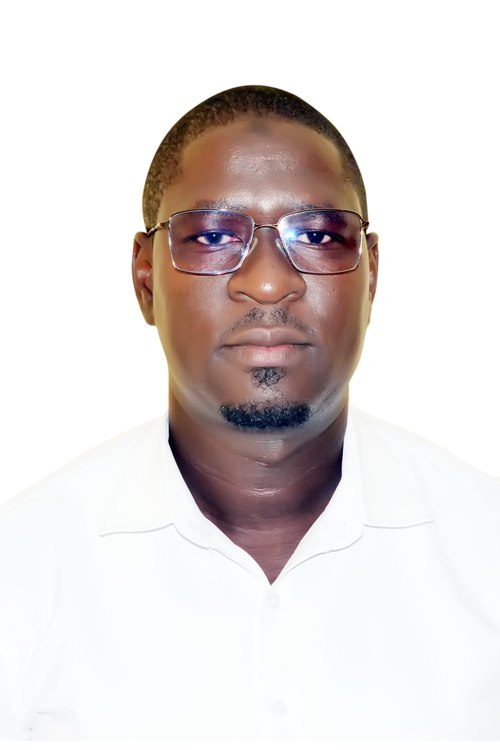
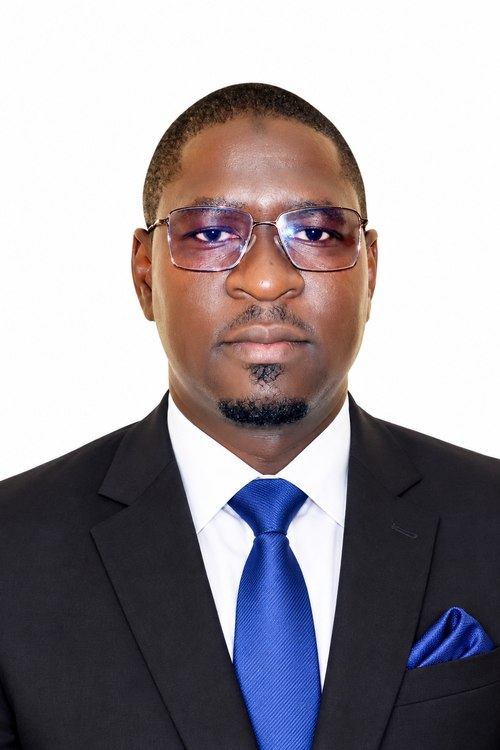
Fix team detail pages substituting Modern Karema's bio, add Osbon's real bio
TeamDetailsInner had a fallback that substituted Modern Karema's CEO
bio whenever a real team member's bio field was empty - meaning
Kasozi Osbon's page (and anyone else without a submitted bio) was
showing his name/photo/role but Modern's biography text. Replaced
that with an honest generic placeholder that references the actual
person, and only falls back to the hardcoded default when there's no
member data at all (a genuinely broken link).

Added Kasozi Osbon's real photo, bio, role (Program Lead) and
LinkedIn, reordering him alongside the other Program Leads. Also
corrected CPA Fredrick Kibeddi's title from "Board Member, Finance &
Risk" to "Committee Chairperson, Finance & Risk" per the client.

The seed sync loop now also updates role, order and linkedinUrl on
existing records (previously only photo and bio), since title/order
corrections like these need to actually take effect on reseed.

Claude-Session: https://claude.ai/code/session_012BVZR2jqnUajNw6z3kPew4

diff --git a/src/seed/seed.ts b/src/seed/seed.ts
@@ -373,7 +373,7 @@ async function seed() {
     { name: 'Janat Namukose', role: 'Chief People Officer', category: 'executive', photo: teamPhotos.namukose, order: 4, featuredOnHome: true, bio: "As Chief People Officer, Janat leads the people, culture and talent strategy that enables Ed Impact Africa Foundation's team to deliver its education reform mission across Uganda." },
     { name: 'Prof. Betty Ezati', role: 'Board Chairperson', category: 'board', photo: teamPhotos.ezati, order: 5, featuredOnHome: false, bio: "As Board Chairperson, Professor Ezati provides strategic oversight and governance leadership for Ed Impact Africa Foundation's Board of Directors." },
     { name: 'Dr. Cleophas Mugenyi', role: 'Board Member', category: 'board', photo: teamPhotos.mugenyi, order: 6, featuredOnHome: false, bio: "As a Board Member, Dr. Mugenyi contributes to the governance and strategic direction of Ed Impact Africa Foundation." },
-    { name: 'CPA Fredrick Kibeddi', role: 'Board Member, Finance & Risk', category: 'board', photo: teamPhotos.kibeddi, order: 7, featuredOnHome: false, bio: "As a Board Member for Finance & Risk, Fredrick supports the financial governance and risk oversight that keep Ed Impact Africa Foundation's programmes accountable and sustainable." },
+    { name: 'CPA Fredrick Kibeddi', role: 'Committee Chairperson, Finance & Risk', category: 'board', photo: teamPhotos.kibeddi, order: 7, featuredOnHome: false, bio: "As Committee Chairperson for Finance & Risk, Fredrick leads the financial governance and risk oversight that keep Ed Impact Africa Foundation's programmes accountable and sustainable." },
     { name: 'CPA Charles Lutimba', role: 'Board Member, Finance & Risk', category: 'board', photo: teamPhotos.lutimba, order: 8, featuredOnHome: false, bio: "As a Board Member for Finance & Risk, Charles supports the financial governance and risk oversight that keep Ed Impact Africa Foundation's programmes accountable and sustainable." },
     { name: 'Prof. Gerald Karyeija', role: 'Committee Chairperson, Governance, Strategy & HR', category: 'board', photo: teamPhotos.karyeija, order: 9, featuredOnHome: false, bio: "As Chairperson of the Governance, Strategy & HR Committee, Professor Karyeija guides the Board's oversight of institutional strengthening and organisational strategy as the Foundation grows into an autonomous Ugandan institution." },
     { name: 'Dr. Martha Muhwezi', role: 'Committee Chairperson, Program Quality Assurance', category: 'board', photo: teamPhotos.muhwezi, order: 10, featuredOnHome: false, bio: "As Chairperson of the Program Quality Assurance Committee, Dr. Muhwezi oversees the standards and evidence that ensure Ed Impact Africa Foundation's education system strengthening work delivers measurable learning outcomes." },
@@ -390,13 +390,13 @@ async function seed() {
     { name: 'Fiona Oroma', role: 'Principal Program Lead', category: 'staff', photo: teamPhotos.oroma, order: 19, featuredOnHome: false, bio: "Ms. Oroma Fiona is a Principal Program Lead at STiR Education, where she provides strategic and operational leadership to strengthen public education systems across Uganda by building intrinsic motivation, collaborative leadership, and deep local government ownership. Since joining STiR in September 2017, she has supported programmes across Busoga, West Nile, Teso, Lango and Acholi, working closely with local governments, education leaders and schools to strengthen teacher motivation, collaborative leadership and evidence-informed practice.\n\nOver her career at STiR, Fiona has progressed from District Lead in Busoga to Senior Program Manager for West Nile and now Principal Program Lead. She brings extensive experience in programme leadership, stakeholder engagement, systems strengthening, data use and team development, with a strong focus on translating local insights into practical improvements in education delivery. She also bridges regional field insights with STiR's National design, M&E, Finance, and People teams to ensure high-quality program implementation, sound financial stewardship, and strong cross-functional synergy.\n\nFiona is driven by a belief that sustainable education change is built on trust, continuous learning and shared accountability. She is committed to developing local leadership and strengthening education systems so that teachers and education leaders are better supported to create positive learning experiences for every child." },
     { name: 'Christine Bako', role: 'Program Lead', category: 'staff', photo: teamPhotos.bako, order: 20, featuredOnHome: false, bio: "Christine Bako is an education professional with several years of experience in teaching, teacher development, and education program implementation. She currently serves as a Program Lead where she supports the implementation of education programmes across the regions of West Nile and Bunyoro, working closely with teachers, school leaders and other stakeholders to strengthen teaching and learning. Her role involves program coordination, stakeholder engagement, monitoring implementation, coaching and support, and contributing to data-driven decision-making.\n\nBefore joining STiR Education, she worked with Jesuit Refugee Service (JRS) as an English Instructor. She also has extensive classroom teaching experience, having taught English Language at St. Charles Lwanga International School, Sacred Heart SS, Gulu High School, Gulu Army SS, and Gulu College School. These experiences have given her a strong understanding of classroom practice, teacher needs, learner development, and the realities faced by education in different school settings.\n\nChristine is motivated by a strong passion for education and its power to transform lives and communities. She is particularly inspired by opportunities to support teachers to grow professionally and create learning environments where learners can thrive. Her commitment is driven by the belief that meaningful improvements in education begin with empowered teachers, strong school leadership, and a shared commitment to better outcomes for every learner." },
     { name: 'Denis Kinyera', role: 'Program Lead', category: 'staff', photo: teamPhotos.kinyera, order: 21, featuredOnHome: false, bio: "Denis Kinyera is an education and development professional with 12 years of experience in development and livelihoods programming, with expertise in teacher development, education leadership and systems strengthening.\n\nHe holds a Bachelor's degree in Business Studies with Education from Kyambogo University and is currently pursuing a Master of Education in Curriculum Studies at Uganda Christian University.\n\nThroughout his career, Denis has worked with Te-Kworo Foundation, Educate! as a Program Officer, Teach For Uganda as a Leadership Development Officer, and STiR Education as a Program Lead. These roles have provided him with extensive experience in classroom practice, leadership development, teacher support and programme implementation.\n\nDenis is passionate about teacher education, coaching and mentorship, particularly supporting teachers and education leaders to build confidence, ownership and agency. His work focuses on strengthening education systems through effective programme implementation, collaborative learning and continuous professional development, with a strong interest in translating evidence and ideas into practical improvements in teaching and learning." },
-    { name: 'Alison Natukunda', role: 'Administration Coordinator – Procurement & Administration', category: 'staff', photo: teamPhotos.natukunda, order: 22, featuredOnHome: false, bio: "Alison Natukunda is an Administration Coordinator supporting procurement and administration, with over seven years of experience in procurement, logistics, administration, and operational support within the international development sector. In her role, she coordinates end-to-end procurement processes, including procurement planning, sourcing, supplier due diligence, quotation and bid processes, contract administration, and supplier relationship management. She also supports logistics, asset and inventory management, office administration, and compliance with organisational policies and donor requirements.\n\nAlison is passionate about creating efficient, transparent, and well-organised systems that enable teams to focus on delivering meaningful programme outcomes. She is particularly motivated by ensuring that resources are managed responsibly, processes are accountable, and programme teams receive timely and effective operational support. Her approach is grounded in integrity, attention to detail, collaboration, value for money, and continuous improvement.\n\nAlison holds a Bachelor of Commerce (B. Com) from Makerere University and a Postgraduate Diploma in Business Administration (PGD BA) from Uganda Management Institute. She is also CIPS Level 5 qualified, reflecting her continued commitment to professional development in procurement and supply chain management." },
-    { name: 'Atria Simon', role: 'M&E Coordinator', category: 'staff', photo: teamPhotos.atria, order: 23, featuredOnHome: false, bio: "Atria Simon is a Monitoring, Evaluation and Learning (MEL) professional with 5 years of experience designing systems that measure program processes and turn data into actionable results. As M&E Coordinator, Atria leads the collection, analysis, and presentation of program data to strengthen learning outcomes and guide strategic decisions.\n\nAtria has strong expertise in designing and deploying tools, drawing on a multidisciplinary background in Education, Monitoring and Evaluation, ICT, and Project Planning and Management to adapt systems to diverse program needs.\n\nDriven by a commitment to evidence-based impact, Atria values constructive feedback, ethical practice, and a results-oriented approach and continually working to ensure data translates into real improvements for the people programs are meant to serve." },
-    { name: 'Stellah Atim', role: 'Administration Assistant', category: 'staff', photo: teamPhotos.atim, order: 24, featuredOnHome: false, bio: "Atim Stellah is an Administration Assistant with six years of experience supporting effective office operations and organisational administration. Her areas of expertise include communication and correspondence, document and data preparation, calendar and schedule coordination, records management, and office administration.\n\nIn her role, Stellah provides administrative support to the team, coordinates official communication, maintains departmental records and filing systems, manages office supplies and equipment, supports inventory management, and coordinates venues and logistics for meetings and other organisational activities.\n\nStellah is motivated by STiR's culture of humility and the example set by its leaders. She is committed to serving with integrity, professionalism and dedication, while ensuring that the team has the administrative support needed to deliver its work effectively." },
-    { name: 'Trevor Kirungi', role: 'Team Member', category: 'staff', photo: teamPhotos.kirungi, order: 25, featuredOnHome: false, bio: undefined as string | undefined },
-    { name: 'Annet Nantaba', role: 'Team Member', category: 'staff', photo: teamPhotos.nantaba, order: 26, featuredOnHome: false, bio: undefined as string | undefined },
-    { name: 'Doris Nabugasha', role: 'Team Member', category: 'staff', photo: teamPhotos.nabugasha, order: 27, featuredOnHome: false, bio: undefined as string | undefined },
-    { name: 'Kasozi Osbon', role: 'Team Member', category: 'staff', photo: teamPhotos.kasozi, order: 28, featuredOnHome: false, bio: undefined as string | undefined },
+    { name: 'Kasozi Osbon', role: 'Program Lead', category: 'staff', photo: teamPhotos.kasozi, order: 22, featuredOnHome: false, linkedinUrl: 'https://www.linkedin.com/in/osbon-kasozi-2532b119b/', bio: "Kasozi Osbon is a Program Lead at STiR Education Uganda, with over 10 years of experience in programme management, education systems strengthening, stakeholder engagement, programme strategy, and implementation across Uganda. In his current role, he provides strategic and operational leadership for the Social Initiative Special Project, working closely with the Ministry of Education and Sports, local government officials, donors, partners, and education leaders to strengthen programme quality, accountability, and sustainable impact. His work spans teacher professional development, intrinsic motivation, leadership, data-informed decision-making, and systems-led approaches to improving teaching and learning.\n\nAt STiR Education, Osbon has played a key role in documenting impact, strengthening programme delivery, stakeholder partnerships, monitoring and learning, and adaptive implementation. He has contributed to initiatives across multiple regions such as Ankole, Kigezi, Acholi, Lango, Teso, and Karamoja, supporting education stakeholders to use data and local evidence to improve programme implementation.\n\nPrior to STiR, he served as District Systems Strengthening Coordinator with Mott MacDonald/Cambridge Education under the SESIL program, Future Africa as Program Coordinator, Save the Children as Program Officer Education and Child Protection, and Comboni Samaritans of Gulu as Program Supervisor.\n\nOsbon brings a strong combination of programme leadership, systems thinking, partnership development, resource mobilisation, monitoring and evaluation, and team development. He holds a Master of Public Health from Cavendish University, a Bachelor of Arts in Social Sciences from Kyambogo University, and a Diploma in Education from Uganda Martyrs University. He is motivated by building education systems that are locally owned, evidence-informed and capable of delivering lasting improvements for teachers and learners." },
+    { name: 'Alison Natukunda', role: 'Administration Coordinator – Procurement & Administration', category: 'staff', photo: teamPhotos.natukunda, order: 23, featuredOnHome: false, bio: "Alison Natukunda is an Administration Coordinator supporting procurement and administration, with over seven years of experience in procurement, logistics, administration, and operational support within the international development sector. In her role, she coordinates end-to-end procurement processes, including procurement planning, sourcing, supplier due diligence, quotation and bid processes, contract administration, and supplier relationship management. She also supports logistics, asset and inventory management, office administration, and compliance with organisational policies and donor requirements.\n\nAlison is passionate about creating efficient, transparent, and well-organised systems that enable teams to focus on delivering meaningful programme outcomes. She is particularly motivated by ensuring that resources are managed responsibly, processes are accountable, and programme teams receive timely and effective operational support. Her approach is grounded in integrity, attention to detail, collaboration, value for money, and continuous improvement.\n\nAlison holds a Bachelor of Commerce (B. Com) from Makerere University and a Postgraduate Diploma in Business Administration (PGD BA) from Uganda Management Institute. She is also CIPS Level 5 qualified, reflecting her continued commitment to professional development in procurement and supply chain management." },
+    { name: 'Atria Simon', role: 'M&E Coordinator', category: 'staff', photo: teamPhotos.atria, order: 24, featuredOnHome: false, bio: "Atria Simon is a Monitoring, Evaluation and Learning (MEL) professional with 5 years of experience designing systems that measure program processes and turn data into actionable results. As M&E Coordinator, Atria leads the collection, analysis, and presentation of program data to strengthen learning outcomes and guide strategic decisions.\n\nAtria has strong expertise in designing and deploying tools, drawing on a multidisciplinary background in Education, Monitoring and Evaluation, ICT, and Project Planning and Management to adapt systems to diverse program needs.\n\nDriven by a commitment to evidence-based impact, Atria values constructive feedback, ethical practice, and a results-oriented approach and continually working to ensure data translates into real improvements for the people programs are meant to serve." },
+    { name: 'Stellah Atim', role: 'Administration Assistant', category: 'staff', photo: teamPhotos.atim, order: 25, featuredOnHome: false, bio: "Atim Stellah is an Administration Assistant with six years of experience supporting effective office operations and organisational administration. Her areas of expertise include communication and correspondence, document and data preparation, calendar and schedule coordination, records management, and office administration.\n\nIn her role, Stellah provides administrative support to the team, coordinates official communication, maintains departmental records and filing systems, manages office supplies and equipment, supports inventory management, and coordinates venues and logistics for meetings and other organisational activities.\n\nStellah is motivated by STiR's culture of humility and the example set by its leaders. She is committed to serving with integrity, professionalism and dedication, while ensuring that the team has the administrative support needed to deliver its work effectively." },
+    { name: 'Trevor Kirungi', role: 'Team Member', category: 'staff', photo: teamPhotos.kirungi, order: 26, featuredOnHome: false, bio: undefined as string | undefined },
+    { name: 'Annet Nantaba', role: 'Team Member', category: 'staff', photo: teamPhotos.nantaba, order: 27, featuredOnHome: false, bio: undefined as string | undefined },
+    { name: 'Doris Nabugasha', role: 'Team Member', category: 'staff', photo: teamPhotos.nabugasha, order: 28, featuredOnHome: false, bio: undefined as string | undefined },
   ]
   for (const member of teamMembers) {
     const existing = await payload.find({ collection: 'team-members', where: { name: { equals: member.name } }, limit: 1 })
@@ -409,6 +409,11 @@ async function seed() {
     const currentPhotoId = typeof current.photo === 'object' ? current.photo?.id : current.photo
     if (member.photo?.id && currentPhotoId !== member.photo.id) updateData.photo = member.photo.id
     if (member.bio && member.bio !== current.bio) updateData.bio = member.bio
+    if (member.role && member.role !== current.role) updateData.role = member.role
+    if (typeof member.order === 'number' && member.order !== current.order) updateData.order = member.order
+    if ((member as any).linkedinUrl && (member as any).linkedinUrl !== current.linkedinUrl) {
+      updateData.linkedinUrl = (member as any).linkedinUrl
+    }
     if (Object.keys(updateData).length) {
       await payload.update({ collection: 'team-members', id: current.id, data: updateData })
     }

diff --git a/src/components/TeamDetailsInner.jsx b/src/components/TeamDetailsInner.jsx
@@ -9,8 +9,11 @@ const defaultMember = {
 
 const TeamDetailsInner = ({ member: currentMember }) => {
   const member = currentMember || defaultMember;
-  const paragraphs = (member.bio || defaultMember.bio).split(/\n\s*\n/).filter(Boolean);
-  const intro = paragraphs[0] || defaultMember.bio;
+  const fallbackBio = currentMember
+    ? `${member.name} is a valued member of the Ed Impact Africa Foundation team, serving as ${member.role}. Full biography coming soon.`
+    : defaultMember.bio;
+  const paragraphs = (member.bio || fallbackBio).split(/\n\s*\n/).filter(Boolean);
+  const intro = paragraphs[0] || fallbackBio;
   const rest = paragraphs.slice(1);
 
   return (
